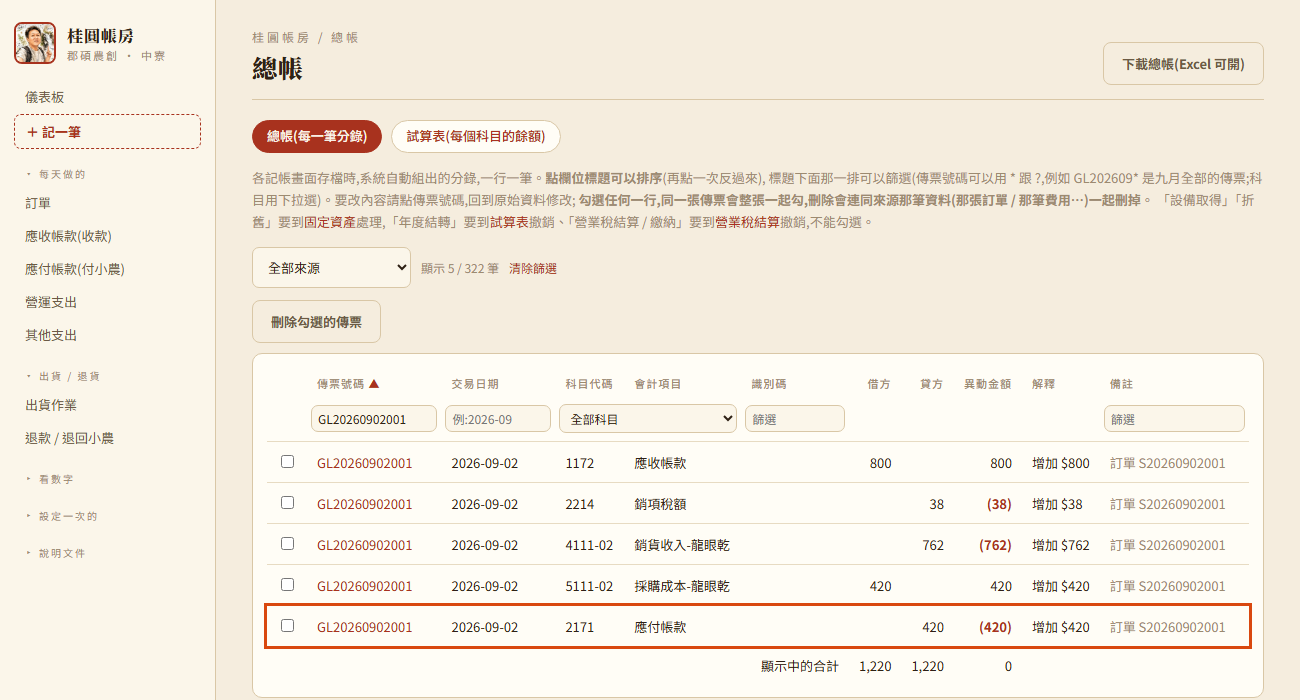
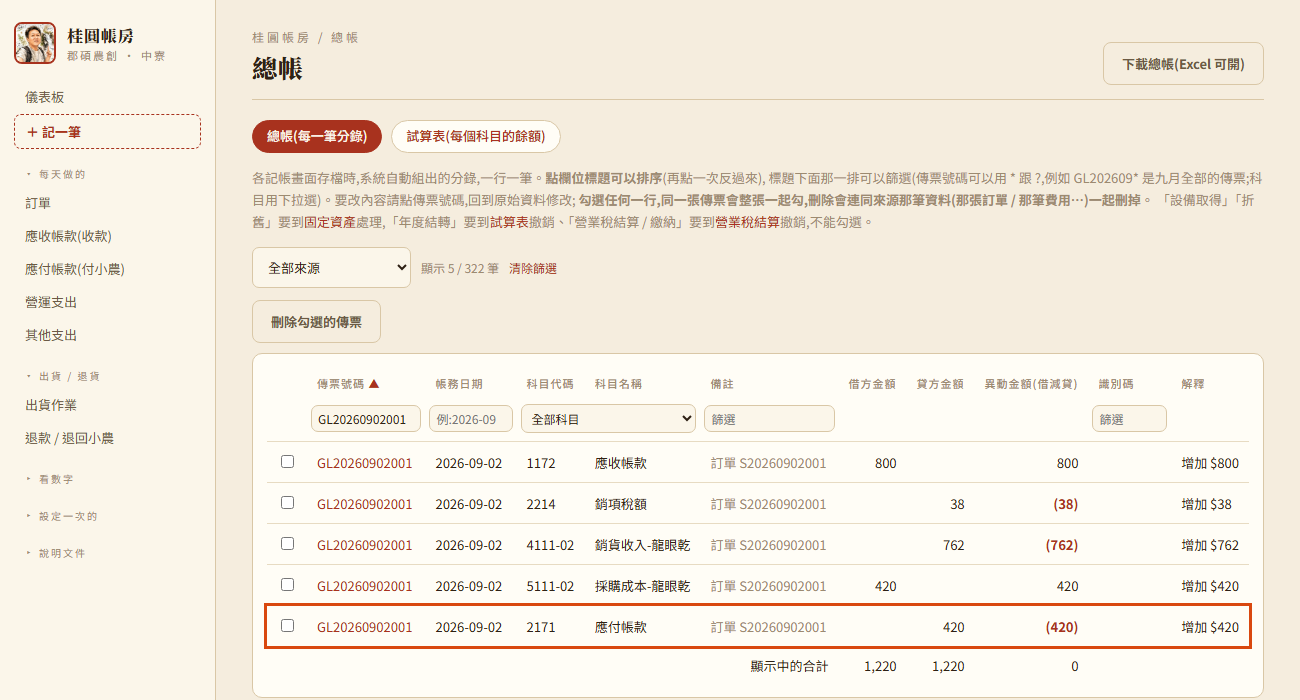
試算表、總帳欄位照同仁給的格式(試算表加期別、借方金額 / 貸方金額;總帳欄位順序);示範資料資本改 100 萬存合庫;文件與截圖更新

diff --git a/app/templates/statements.html b/app/templates/statements.html
@@ -34,24 +34,24 @@
 <hr class="rule">
 {% include "_book_tabs.html" %}
 <p class="muted" style="font-size:13px;margin:-4px 0 16px;line-height:1.7">
-  {{ tb.lo }} ~ {{ tb.hi }}。<b>期初餘額</b> = 前一年底為止的累計;<b>期末餘額</b> = 期初 + 本期借方 − 本期貸方。
+  {{ tb.lo }} ~ {{ tb.hi }}。<b>期初餘額</b> = 前一年底為止的累計;<b>期末餘額</b> = 期初 + 借方金額 − 貸方金額。
   <b>金額借方是正、貸方是負</b>(負債、權益、收入的餘額是負數),所以全部科目的期末餘額加總應該 = 0。<br>
   「3353 本期損益」= 這一年 4~7 開頭科目的淨額(一樣借正貸負,有賺是負數),是算出來的,不算進合計跟檢核。
 </p>
 <div class="card stmt-card" style="margin-bottom:16px">
   <table class="stmt">
-    <colgroup><col class="c-code"><col class="c-name"><col class="c-amt"><col class="c-amt"><col class="c-amt"><col class="c-amt"></colgroup>
-    <thead><tr><th>科目代碼</th><th>科目名稱</th><th data-num>期初餘額</th><th data-num>本期借方</th><th data-num>本期貸方</th><th data-num>期末餘額</th></tr></thead>
+    <colgroup><col style="width:64px"><col class="c-code"><col class="c-name"><col class="c-amt"><col class="c-amt"><col class="c-amt"><col class="c-amt"></colgroup>
+    <thead><tr><th>期別</th><th style="text-align:left">科目代碼</th><th style="text-align:left">科目名稱</th><th data-num>期初餘額</th><th data-num>借方金額</th><th data-num>貸方金額</th><th data-num>期末餘額</th></tr></thead>
     <tbody>{% for r in tb.rows %}
       <tr style="{{ 'background:var(--paper-2)' if r.synthetic }}">
-        <td>{{ r.account_code }}</td><td>{{ r.account_name }}{{ '(算出來的)' if r.synthetic }}</td>
+        <td>{{ tb.year }}</td><td style="text-align:left">{{ r.account_code }}</td><td style="text-align:left">{{ r.account_name }}{{ '(算出來的)' if r.synthetic }}</td>
         <td class="r {{ 'neg' if r.open_bal and r.open_bal < 0 }}">{{ '—' if r.synthetic else r.open_bal|money }}</td>
         <td class="r">{{ '—' if r.synthetic else r.dr|money }}</td>
         <td class="r">{{ '—' if r.synthetic else r.cr|money }}</td>
         <td class="r {{ 'neg' if r.close_bal < 0 }}">{{ r.close_bal|money }}</td>
       </tr>
     {% endfor %}</tbody>
-    <tfoot><tr class="sum"><td></td><td>合計(不含本期損益)</td>
+    <tfoot><tr class="sum"><td></td><td></td><td>合計(不含本期損益)</td>
       <td class="r">{{ tb.total_open|money }}</td><td class="r">{{ tb.total_dr|money }}</td>
       <td class="r">{{ tb.total_cr|money }}</td><td class="r">{{ tb.check|money }}</td></tr></tfoot>
   </table>

diff --git a/app/templates/ledger.html b/app/templates/ledger.html
@@ -40,15 +40,15 @@
       <tr>
         <th style="width:34px"></th>
         <th data-k="v" data-t="s" class="sortable">傳票號碼</th>
-        <th data-k="d" data-t="s" class="sortable">交易日期</th>
+        <th data-k="d" data-t="s" class="sortable">帳務日期</th>
         <th data-k="c" data-t="s" class="sortable">科目代碼</th>
-        <th data-k="n" data-t="s" class="sortable">會計項目</th>
-        <th data-k="i" data-t="s" class="sortable">識別碼</th>
-        <th data-k="dr" data-t="n" class="sortable" data-num>借方</th>
-        <th data-k="cr" data-t="n" class="sortable" data-num>貸方</th>
-        <th data-k="a" data-t="n" class="sortable" data-num>異動金額</th>
-        <th data-k="x" data-t="s" class="sortable">解釋</th>
+        <th data-k="n" data-t="s" class="sortable">科目名稱</th>
         <th data-k="m" data-t="s" class="sortable">備註</th>
+        <th data-k="dr" data-t="n" class="sortable" data-num>借方金額</th>
+        <th data-k="cr" data-t="n" class="sortable" data-num>貸方金額</th>
+        <th data-k="a" data-t="n" class="sortable" data-num>異動金額(借減貸)</th>
+        <th data-k="i" data-t="s" class="sortable">識別碼</th>
+        <th data-k="x" data-t="s" class="sortable">解釋</th>
       </tr>
       <tr class="filters">
         <th></th>
@@ -58,9 +58,10 @@
           <option value="">全部科目</option>
           {% for code, name in accts %}<option value="{{ code }}">{{ code }} {{ name }}</option>{% endfor %}
         </select></th>
-        <th><input data-f="i" placeholder="篩選"></th>
-        <th></th><th></th><th></th><th></th>
         <th><input data-f="m" placeholder="篩選"></th>
+        <th></th><th></th><th></th>
+        <th><input data-f="i" placeholder="篩選"></th>
+        <th></th>
       </tr>
     </thead>
     <tbody>
@@ -73,12 +74,12 @@
         <td>{{ r.entry_date }}</td>
         <td>{{ r.account_code }}</td>
         <td>{{ r.account_name }}</td>
-        <td>{{ r.invoice_no }}</td>
+        <td class="muted">{{ r.note or '' }}</td>
         <td class="r">{{ r.debit|money if r.debit else '' }}</td>
         <td class="r">{{ r.credit|money if r.credit else '' }}</td>
         <td class="r {{ 'neg' if r.amount < 0 }}">{% if r.amount < 0 %}({{ (-r.amount)|money }}){% else %}{{ r.amount|money }}{% endif %}</td>
+        <td>{{ r.invoice_no }}</td>
         <td>{{ r.explain }}</td>
-        <td class="muted">{{ r.note or '' }}</td>
       </tr>
     {% else %}
       <tr><td colspan="11" class="muted" style="text-align:left">還沒有分錄。開一張訂單或記一筆營運支出,存檔後就會出現在這裡。</td></tr>

diff --git a/app/main.py b/app/main.py
@@ -2124,14 +2124,15 @@ def _ledger_rows(src):
     return rows
 
 
-LEDGER_CSV_HEAD = ["傳票號碼", "交易日期", "科目代碼", "會計項目", "識別碼", "借方", "貸方", "異動金額", "解釋", "備註"]
+# 欄位照同仁給的「總帳明細」格式(2026-10-21);「解釋」是 1001 第 3 條要的,放最後
+LEDGER_CSV_HEAD = ["傳票號碼", "帳務日期", "科目代碼", "科目名稱", "備註", "借方金額", "貸方金額", "異動金額(借減貸)", "識別碼", "解釋"]
 
 @app.get("/ledger.csv")
 def ledger_csv(request: Request):
     """總帳下載(1019 同仁問題第 7 條):跟畫面同欄位,依傳票號碼排。"""
     src = request.query_params.get("source") or ""
-    rows = [[r["voucher_no"], r["entry_date"], r["account_code"], r["account_name"], r["invoice_no"],
-             round(r["debit"] or 0), round(r["credit"] or 0), round(r["amount"]), r["explain"], r["note"] or ""]
+    rows = [[r["voucher_no"], r["entry_date"], r["account_code"], r["account_name"], r["note"] or "",
+             round(r["debit"] or 0), round(r["credit"] or 0), round(r["amount"]), r["invoice_no"], r["explain"]]
             for r in _ledger_rows(src)]
     return csv_response(f"總帳_{dt.date.today().isoformat()}.csv", LEDGER_CSV_HEAD, rows)
 
@@ -2288,12 +2289,13 @@ def trial_balance_csv(request: Request):
     """試算表下載:跟畫面一樣(期初、本期借貸、期末,借正貸負)。"""
     year, _ = _trial_year(request)
     tb = Q.trial_balance(year)
-    rows = [[r["account_code"], r["account_name"] + ("(算出來的,不計入檢核)" if r["synthetic"] else ""),
+    rows = [[year, r["account_code"], r["account_name"] + ("(算出來的,不計入檢核)" if r["synthetic"] else ""),
              "" if r["synthetic"] else round(r["open_bal"]), "" if r["synthetic"] else round(r["dr"]),
              "" if r["synthetic"] else round(r["cr"]), round(r["close_bal"])] for r in tb["rows"]]
-    rows += [[], ["", "合計(不含本期損益)", round(tb["total_open"]), round(tb["total_dr"]), round(tb["total_cr"]),
-                  round(tb["check"])], ["", "檢核:期末餘額加總(應該 = 0)", "", "", "", round(tb["check"])]]
-    return csv_response(f"試算表_{year}年.csv", ["科目代碼", "科目名稱", "期初餘額", "本期借方", "本期貸方", "期末餘額"], rows)
+    rows += [[], ["", "", "合計(不含本期損益)", round(tb["total_open"]), round(tb["total_dr"]), round(tb["total_cr"]),
+                  round(tb["check"])], ["", "", "檢核:期末餘額加總(應該 = 0)", "", "", "", round(tb["check"])]]
+    # 欄位照同仁給的「試算表」格式(2026-10-21)
+    return csv_response(f"試算表_{year}年.csv", ["期別", "科目代碼", "科目名稱", "期初餘額", "借方金額", "貸方金額", "期末餘額"], rows)
 
 @app.post("/statements/close-year")
 async def statements_close_year(request: Request):

diff --git a/app/seed.py b/app/seed.py
@@ -274,10 +274,10 @@ def opx(ym, cat, amt, pgname=None, amort=None):
     """2026-10-16:營運費用的項目就是 VD 科目;示範資料沿用原本的類別,這裡換成對應科目。"""
     code = _OPX_CODE[cat]
     c.execute("""INSERT INTO op_expense(expense_date,ym,category,account_code,amount,product_group_id,amortize_months,payment_account)
-                 VALUES(?,?,?,?,?,?,?,?)""", (ym + "-01", ym, chart.name_of(code), code, amt, pg.get(pgname), amort, "現金"))
+                 VALUES(?,?,?,?,?,?,?,?)""", (ym + "-01", ym, chart.name_of(code), code, amt, pg.get(pgname), amort, "合庫"))   # 示範:營運支出從合庫付(2026-10-21)
     eid = c.lastrowid
     # 2026-10-20:每筆營運支出都記傳票(以前示範資料只有研發、檢驗費兩筆有,財務健康改從總帳抓後會少算)
-    add_voucher(ym + "-01", ledger.compose_expense_entries(code, amt, 0, "現金"), "op_expense", eid,
+    add_voucher(ym + "-01", ledger.compose_expense_entries(code, amt, 0, "合庫"), "op_expense", eid,
                 f"營運支出:{chart.name_of(code)}")
     return eid
 
@@ -307,9 +307,9 @@ for name, cat, pgname, adate, cost, tax, months in assets:
                  grant_amount,salvage,tax_amount,life_years,life_months,method,payment_account,note)
                  VALUES(?,?,?,?,?,0,0,?,?,?,?,?,?)""",
               (name, cat, pg.get(pgname), adate, cost, tax, months // 12, months, "平均法",
-               "現金", None))
+               "合庫", None))
     asset_id = c.lastrowid
-    legs = ledger.compose_asset_acquire_entries(cat, cost, tax, "現金")
+    legs = ledger.compose_asset_acquire_entries(cat, cost, tax, "合庫")
     add_voucher(adate, legs, "asset_acquire", asset_id, f"設備取得:{name}")
     # 折舊分錄留給 /assets 頁第一次打開時自動補上(sync_depreciation_vouchers),
     # 這裡不預先寫,才是走跟真實使用一樣的路徑
@@ -322,9 +322,9 @@ legs = ledger.compose_other_income_entries("7101", 85, 0, "合庫")
 add_voucher("2026-08-31", legs, "other_income", inc_id, "其他收益示範")
 
 c.execute("""INSERT INTO equity_txn(txn_date,txn_type,amount,payment_account,equity_account,note)
-             VALUES(?,?,?,?,?,?)""", ("2025-04-01", "增資", 50000, "現金", "3110", "示範:開業資本額出資"))
+             VALUES(?,?,?,?,?,?)""", ("2025-04-01", "增資", 1000000, "合庫", "3110", "示範:開業資本額出資(存進合庫)"))
 eq_id = c.lastrowid
-legs = ledger.compose_equity_entries("增資", 50000, "現金", "3110")
+legs = ledger.compose_equity_entries("增資", 1000000, "合庫", "3110")
 add_voucher("2025-04-01", legs, "equity", eq_id, "資本異動示範")
 
 bank_code, bank_name = chart.cash_account("合庫")   # 1103-01,依會計科目表

diff --git a/app/docs/驗證報告.md b/app/docs/驗證報告.md
@@ -459,7 +459,7 @@
 | 序號 | 問題(簡述) | 狀態 | 版本 |
 |---|---|---|---|
 | 1 | 認列成本時對象不能是現金,要記應付帳款,並新增應付帳款頁 | ✅ | `573f16d` |
-| 2 | 試算表要有期初 / 期末餘額(如左頁表格格式) | ◐ | `4db7405` |
+| 2 | 試算表要有期初 / 期末餘額(如左頁表格格式) | ✅ | `4db7405`、2026-10-21 版 |
 | 3 | 試算表科目方向:負債是負數,以此類推 | ✅ | `4db7405` |
 | 4 | 營運支出改備註後,總帳沒跟著改 | ✅ | `c1ad26e` |
 | 5 | 試算表「本期損益」要隨時變化,但不計入驗算 | ✅ | `4db7405` |
@@ -472,7 +472,7 @@
 | 12 | 結帳時進項 / 銷項互抵,做出留抵稅額或應付稅捐 | ✅ | `5541c30` |
 | 13 | 財務健康還沒抓總帳數字 | ✅ | `573f16d` |
 
-11 條完成;第 2 條欄位先用一般會計格式(同仁說的「左頁」那張表還沒拿到);第 10 條使用者決定先記下、不做。
+12 條完成;第 10 條使用者決定先記下、不做。
 
 這 13 條是用測試程式在全新示範資料上送真的存檔 / 刪除請求、再查資料庫的分錄逐項驗證(共 70 多項檢查),另外拿舊資料庫的複本測「舊訂單自動轉換」(每個科目餘額轉換前後完全一樣),再截圖確認畫面。
 
@@ -495,17 +495,16 @@
 ![這張訂單的傳票:貸 2171 應付帳款](screenshots/verify/1019-01-ledger-ap.png)
 ![應付帳款頁:勾選付款](screenshots/verify/1019-01-payables.png)
 
-### 1019-2 試算表期初 / 期末 ◐
+### 1019-2 試算表期初 / 期末
 
 > **同仁原文**:試算表要有期初期末餘額(如左頁表格格式)
 
-**解法**:試算表改成每個科目一列:**期初餘額**(前一年底為止)、**本期借方**、**本期貸方**、**期末餘額** = 期初 + 借 − 貸。
-2026 年的期初 = 2025 年的期末(實測一致)。
+**解法**:照使用者 2026-10-21 提供的「左頁」格式:每個科目一列,欄位 **期別**、科目代碼、科目名稱、**期初餘額**、
+**借方金額**、**貸方金額**、**期末餘額** = 期初 + 借 − 貸;下載的檔案同樣欄位。2026 年的期初 = 2025 年的期末(實測一致)。
+同一張格式圖裡的「總帳明細」也一起照著調:傳票號碼、帳務日期、科目代碼、科目名稱、備註、借方金額、貸方金額、
+異動金額(借減貸)、識別碼(「解釋」是 1001 第 3 條要的,放最後)。「會計科目設定表」使用者說只是參考格式,不動。
 
-**還沒完全照原文的地方**:原文說「如左頁表格格式」,專案資料夾裡的 Excel 沒有這張表,
-目前先用一般會計的排法;拿到那張表再照它調欄位。
-
-**佐證**:版本 `4db7405`。
+**佐證**:版本 `4db7405`(期初 / 期末)、2026-10-21 版(欄位照格式)。
 
 ![試算表:期初 / 本期借貸 / 期末](screenshots/verify/1019-02-trial.png)
 
@@ -634,8 +633,8 @@
 
 ## 驗證時要知道的幾件事
 
-1. **示範資料的現金是負數**(資產負債表 `1102 現金` −227,890):示範資料把一整年的營運支出都記成現金付,
-   收款多半進合庫,所以現金被扣成負的。是示範資料不合理,不是系統算錯;檢核值是 0,借貸平衡。
+1. **示範資料**:2026-10-21 起示範資料的開業資本改成 100 萬存進合庫、營運支出和設備從合庫付,現金不會再是負數
+   (更早的截圖裡現金是負的,是那時候示範資料設得不合理,不是系統算錯;檢核值一直是 0)。
 2. [待同仁確認.md](待同仁確認.md) 的 7 題同仁已在 2026-10-20 回覆,系統已照答案改(新增 5 個科目、退款科目、營業稅結算按鈕)。
 3. 要自己操作驗證:在 `app` 資料夾執行 `.venv\Scripts\python seed.py --force` 灌示範資料,再雙擊 `啟動.bat`。
    每個截圖都是照上面寫的選單位置拍的。

diff --git a/app/docs/功能手冊.md b/app/docs/功能手冊.md
@@ -259,17 +259,17 @@ K 組只有機器設備一個科目,「類別」只是描述用,全部記 `1616`
 
 ## 五、總帳頁
 
-照 1015 版「總帳」工作表,**一行一筆分錄的大表格**:
+**一行一筆分錄的大表格**,欄位順序照同仁給的「總帳明細」格式(2026-10-21):
 
 | 欄位 | 說明 |
 |---|---|
 | 傳票號碼 | `GL` + 日期 8 碼 + 當天流水號 3 碼,共 13 碼(例 `GL20260921001`),不分來源。點了回到原始資料修改 |
-| 交易日期 | |
-| 科目代碼 / 會計項目 | 分兩欄 |
+| 帳務日期 | |
+| 科目代碼 / 科目名稱 | 分兩欄 |
+| 備註 | 使用者填的備註會帶進來 |
+| 借方金額 / 貸方金額 / 異動金額(借減貸) | 異動金額 = 借 − 貸,負數加括號 |
 | 識別碼 | 發票號碼 |
-| 借方 / 貸方 / 異動金額 | 異動金額 = 借 − 貸,負數加括號 |
-| 解釋 | 白話說明這一筆讓科目「增加 / 減少 $x」(依科目正常方向判斷) |
-| 備註 | |
+| 解釋 | 白話說明這一筆讓科目「增加 / 減少 $x」(1001 第 3 條要的,格式裡沒有,放最後) |
 
 - 預設依傳票號碼由小到大;**點標題排序**,再點一次反過來。
 - 標題下面一排篩選:傳票號碼可用 `*`、`?` 萬用字元(`GL202609*` = 九月全部);科目用下拉選(完全相同);
@@ -292,14 +292,15 @@ K 組只有機器設備一個科目,「類別」只是描述用,全部記 `1616`
 | 欄 | 算法 |
 |---|---|
 | 期初餘額 | 前一年底為止 Σ(借 − 貸) |
-| 本期借方 / 本期貸方 | 這一年的分錄(含年度結轉) |
+| 期別 | 年度 |
+| 借方金額 / 貸方金額 | 這一年的分錄(含年度結轉) |
 | 期末餘額 | 期初 + 借 − 貸 |
 
 - **借方是正、貸方是負**:負債、權益、收入的餘額是負數。檢核 = 全部科目期末加總,應該 = 0。
 - 「3353 本期損益」= 這一年 4~7 開頭科目的淨額(不含年度結轉傳票,所以結轉前後都看得到當年損益;借正貸負,
   有賺是負數),不算進合計跟檢核。
-- 下載:`GET /statements/trial.csv?year=`(期初、借、貸、期末)。
-- 欄位排法目前用一般會計格式;同仁說「如左頁表格格式」的那張表還沒拿到,拿到再照它調。
+- 下載:`GET /statements/trial.csv?year=`(期別、科目代碼、科目名稱、期初餘額、借方金額、貸方金額、期末餘額)。
+- 欄位照同仁給的「試算表」格式(2026-10-21 使用者提供的截圖)。
 
 ![試算表](screenshots/manual/statements-trial.png)
 
@@ -394,7 +395,6 @@ K 組只有機器設備一個科目,「類別」只是描述用,全部記 `1616`
 | 折舊回溯 | 處分日設定得比已補過的折舊月份早,已記過的月份不會自動回沖 |
 | 訂單匯入沒有稅額 | 匯入的訂單 `sales_tax` 是 0,要手動補 |
 | 存貨科目 | F 組科目保留,但沒有存貨功能 |
-| 試算表欄位排法 | 同仁 1019 說「如左頁表格格式」,那張表還沒拿到,目前用一般會計格式(期初 / 借 / 貸 / 期末) |
 
 ---
 

diff --git a/app/docs/待辦清單.md b/app/docs/待辦清單.md
@@ -32,8 +32,8 @@
 
 - ~~13 條裡 11 條已做完~~(應付帳款頁、試算表期初 / 期末 + 借正貸負、總帳 + 試算表合併、拿掉資產負債表 / 綜合損益表、
   年度鎖住、財務健康從總帳抓、帳務調整預設 3 列、刪全鏈路毛利…),見 [驗證報告.md](驗證報告.md)「1019」。
-- [ ] **第 2 條**:試算表「如左頁表格格式」——那張表還沒拿到,目前用一般會計格式(期初 / 本期借貸 / 期末)。
-      拿到同仁的檔案再照它調欄位。
+- ~~**第 2 條**:試算表「如左頁表格格式」~~(2026-10-21 使用者提供格式圖,試算表加「期別」、欄名改借方金額 / 貸方金額;
+  總帳欄位順序也照格式調;會計科目設定表只是參考,不動)
 - [ ] **第 10 條**:「營運支出」「其他支出」頁面要不要隱藏(資訊有點太細?)——使用者決定先記下、不做。
 - [ ] **部署 Render**:這一版有資料表結構異動,但開機會自動升級(重建總帳表、補科目、舊訂單「當天付小農」自動轉成
       應付帳款 + 付款紀錄,餘額不變),**照平常 Manual Deploy 就好,不用清空資料庫**。
